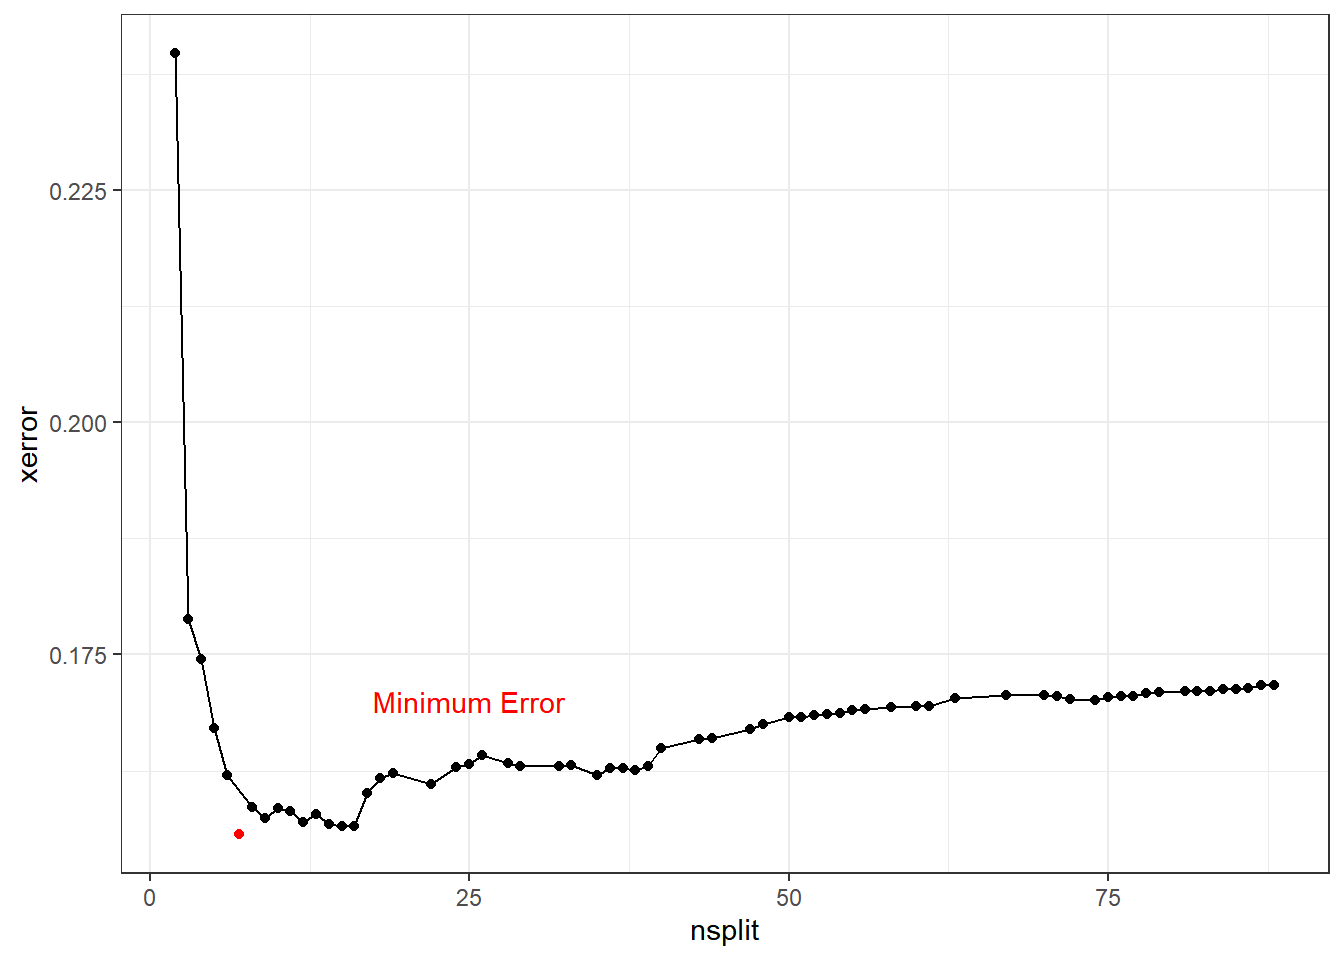
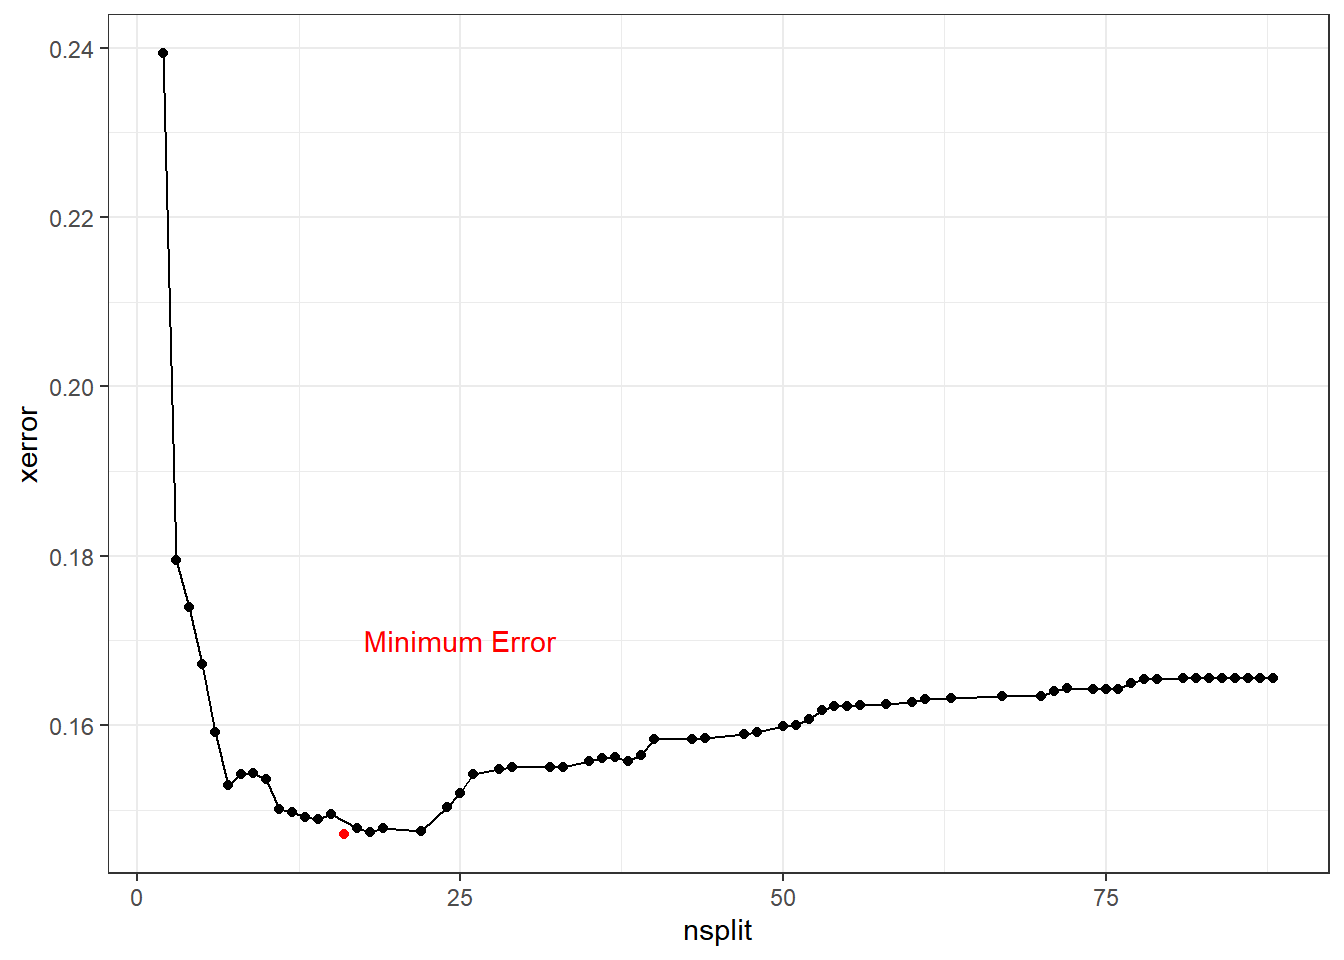
contribute video

diff --git a/docs/tree-based-models.html b/docs/tree-based-models.html
@@ -338,9 +338,9 @@ code span.wa { color: #8f5902; font-weight: bold; font-style: italic; } /* Warni
 ##    &lt;dbl&gt;   &lt;dbl&gt;  &lt;dbl&gt;
 ## 1      0 0.620    1.00 
 ## 2      1 0.144    0.383
-## 3      2 0.0637   0.240
+## 3      2 0.0637   0.239
 ## 4      3 0.00967  0.179
-## 5      4 0.00784  0.175
+## 5      4 0.00784  0.174
 ## 6      5 0.00712  0.167</code></pre>
 <p>As more splits are added, the cost continues to decrease, reaches a minimum, and then begins to increase.</p>
 <p><img src="06-tree-based-models_files/figure-html/unnamed-chunk-6-1.png" width="672" /></p>
@@ -352,14 +352,14 @@ code span.wa { color: #8f5902; font-weight: bold; font-style: italic; } /* Warni
 <a class="sourceLine" id="cb223-4" title="4"><span class="st">  </span><span class="kw">arrange</span>(xerror) <span class="op">%&gt;%</span><span class="st"> </span></a>
 <a class="sourceLine" id="cb223-5" title="5"><span class="st">  </span><span class="kw">head</span>()</a></code></pre></div>
 <pre><code>## # A tibble: 6 x 3
-##   nsplit      CP xerror
-##    &lt;dbl&gt;   &lt;dbl&gt;  &lt;dbl&gt;
-## 1      7 0.00196  0.156
-## 2     16 0.00105  0.156
-## 3     15 0.00116  0.156
-## 4     14 0.00119  0.157
-## 5     12 0.00137  0.157
-## 6      9 0.00173  0.157</code></pre>
+##   nsplit       CP xerror
+##    &lt;dbl&gt;    &lt;dbl&gt;  &lt;dbl&gt;
+## 1     16 0.00105   0.147
+## 2     18 0.000910  0.147
+## 3     22 0.000759  0.148
+## 4     17 0.000913  0.148
+## 5     19 0.000837  0.148
+## 6     14 0.00119   0.149</code></pre>
 <p>The SOA will give you code to find the lowest CP value such as below. This may or may not be useful depending on if they are asking for predictive performance or interpretability.</p>
 <div class="sourceCode" id="cb225"><pre class="sourceCode r"><code class="sourceCode r"><a class="sourceLine" id="cb225-1" title="1">pruned_tree &lt;-<span class="st"> </span><span class="kw">prune</span>(tree,</a>
 <a class="sourceLine" id="cb225-2" title="2">                     <span class="dt">cp =</span> tree<span class="op">$</span>cptable[<span class="kw">which.min</span>(tree<span class="op">$</span>cptable[, <span class="st">&quot;xerror&quot;</span>]), <span class="st">&quot;CP&quot;</span>])</a></code></pre></div>

diff --git a/docs/index.html b/docs/index.html
@@ -298,14 +298,8 @@ code span.wa { color: #8f5902; font-weight: bold; font-style: italic; } /* Warni
 <div id="contribute" class="section level2">
 <h2><span class="header-section-number">1.4</span> Contribute</h2>
 <p>This book was written in <a href="https://rmarkdown.rstudio.com/">RMarkdown</a> using <a href="https://bookdown.org/">bookdown</a>. It is built from a github page, where updates can be sent to this page in minutes. A big shout out to those who have made suggestions already: Erlan Wheeler, David Hill, Caden Collier, Jon Lai, Peter Schelble, and Abhinav Gadde.</p>
-<p>To submit suggestions, see the 20:00 mark of <a href="https://www.youtube.com/watch?v=dVqVscgwSpw">this video</a>.</p>
-<p><img src="images/gitbook_pull_request.png" /></p>
-<ol style="list-style-type: decimal">
-<li>Clicking the “edit” button at the top of this page</li>
-<li>Signing in (or signing up) for github</li>
-<li>Forking the repository</li>
-<li>Submitting a pull request with the improvements.</li>
-</ol>
+<iframe src="https://player.vimeo.com/video/375173977?title=0&amp;byline=0&amp;portrait=0" width="640" height="360" frameborder="0" allow="autoplay; fullscreen" allowfullscreen>
+</iframe>
 </div>
 </div>
             </section>

diff --git a/docs/06-tree-based-models.md b/docs/06-tree-based-models.md
@@ -106,9 +106,9 @@ cost %>% head()
 ##    <dbl>   <dbl>  <dbl>
 ## 1      0 0.620    1.00 
 ## 2      1 0.144    0.383
-## 3      2 0.0637   0.240
+## 3      2 0.0637   0.239
 ## 4      3 0.00967  0.179
-## 5      4 0.00784  0.175
+## 5      4 0.00784  0.174
 ## 6      5 0.00712  0.167
 ```
 
@@ -131,14 +131,14 @@ tree$cptable %>%
 
 ```
 ## # A tibble: 6 x 3
-##   nsplit      CP xerror
-##    <dbl>   <dbl>  <dbl>
-## 1      7 0.00196  0.156
-## 2     16 0.00105  0.156
-## 3     15 0.00116  0.156
-## 4     14 0.00119  0.157
-## 5     12 0.00137  0.157
-## 6      9 0.00173  0.157
+##   nsplit       CP xerror
+##    <dbl>    <dbl>  <dbl>
+## 1     16 0.00105   0.147
+## 2     18 0.000910  0.147
+## 3     22 0.000759  0.148
+## 4     17 0.000913  0.148
+## 5     19 0.000837  0.148
+## 6     14 0.00119   0.149
 ```
 
 The SOA will give you code to find the lowest CP value such as below.  This may or may not be useful depending on if they are asking for predictive performance or interpretability.

diff --git a/docs/index.md b/docs/index.md
@@ -64,16 +64,7 @@ Support: sam@exampa.net
 
 This book was written in [RMarkdown](https://rmarkdown.rstudio.com/) using [bookdown](https://bookdown.org/).  It is built from a github page, where updates can be sent to this page in minutes.  A big shout out to those who have made suggestions already: Erlan Wheeler, David Hill, Caden Collier, Jon Lai, Peter Schelble, and Abhinav Gadde.
 
-To submit suggestions, see the 20:00 mark of [this video](https://www.youtube.com/watch?v=dVqVscgwSpw).
-
-![](images/gitbook_pull_request.png)
-
-1.  Clicking the "edit" button at the top of this page
-2.  Signing in (or signing up) for github
-3.  Forking the repository
-4.  Submitting a pull request with the improvements.
-
-
+<iframe src="https://player.vimeo.com/video/375173977?title=0&byline=0&portrait=0" width="640" height="360" frameborder="0" allow="autoplay; fullscreen" allowfullscreen></iframe>
 
 
 # The exam
